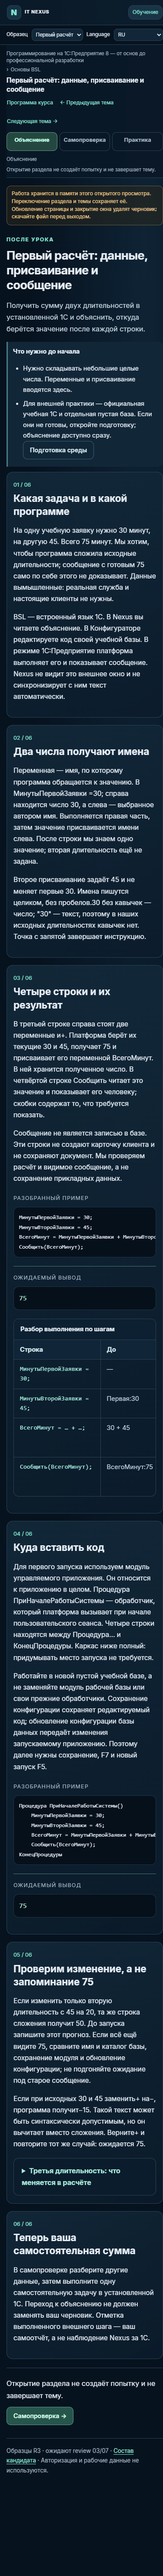
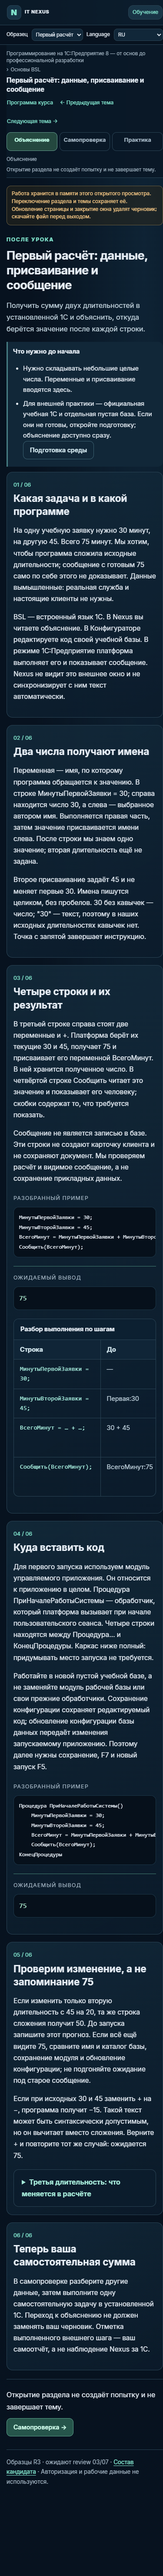
CPP-CLARITY-01 R3: уточнить пояснения C++ и вычитку RU/EN

Changed region(s): [[0.0293, 0.8121, 0.9387, 0.9683], [0.9973, 0.9058, 1.0, 0.937], [0.9973, 0.8433, 1.0, 0.8746]]

diff --git a/docs/ru/03-content/cpp-clarity-01/R3_FAILED_EXPERIMENTS_RU.md b/docs/ru/03-content/cpp-clarity-01/R3_FAILED_EXPERIMENTS_RU.md
@@ -13,3 +13,5 @@
 5. Полный staged gate сначала отверг два разрешённых русских имени BSL-файлов: Git вывел их с кавычками и восьмеричным escaping. Список изменённых файлов переведён на NUL-разделение (`--name-only -z`), которое сохраняет точные имена. Разрешённая область не расширена за review/cpp-clarity-r3, защита всех 1С-деревьев и остальных областей сохранена. Ранний PASS до staging не выдаётся за проверку полного пакета.
 
 6. Первый headless-запуск нового CI-runner увидел прежнюю оболочку до завершения смены языка/раздела и посчитал ноль секций. Тест теперь ждёт совпадения canonical topic, lang и активного этапа. Проверки числа секций и содержимого сохранены; повторный запуск PASS.
+
+7. Дополнительная вычитка образцов выявила пробелы внутри К.Ссылка/З.Клиент/ЕСТЬNULL и слитые подписи A/B в английском объяснении. Они исправлены в авторском тексте. Фраза про удаление std::cout уточнена: удаляется вся инструкция вывода, иначе оставшиеся операторы не скомпилируются. Исходники выполняемых программ не менялись; native/WASI evidence сохраняет прежнюю привязку. Отпечаток текста и браузерные receipts обновлены для нового коммита.
